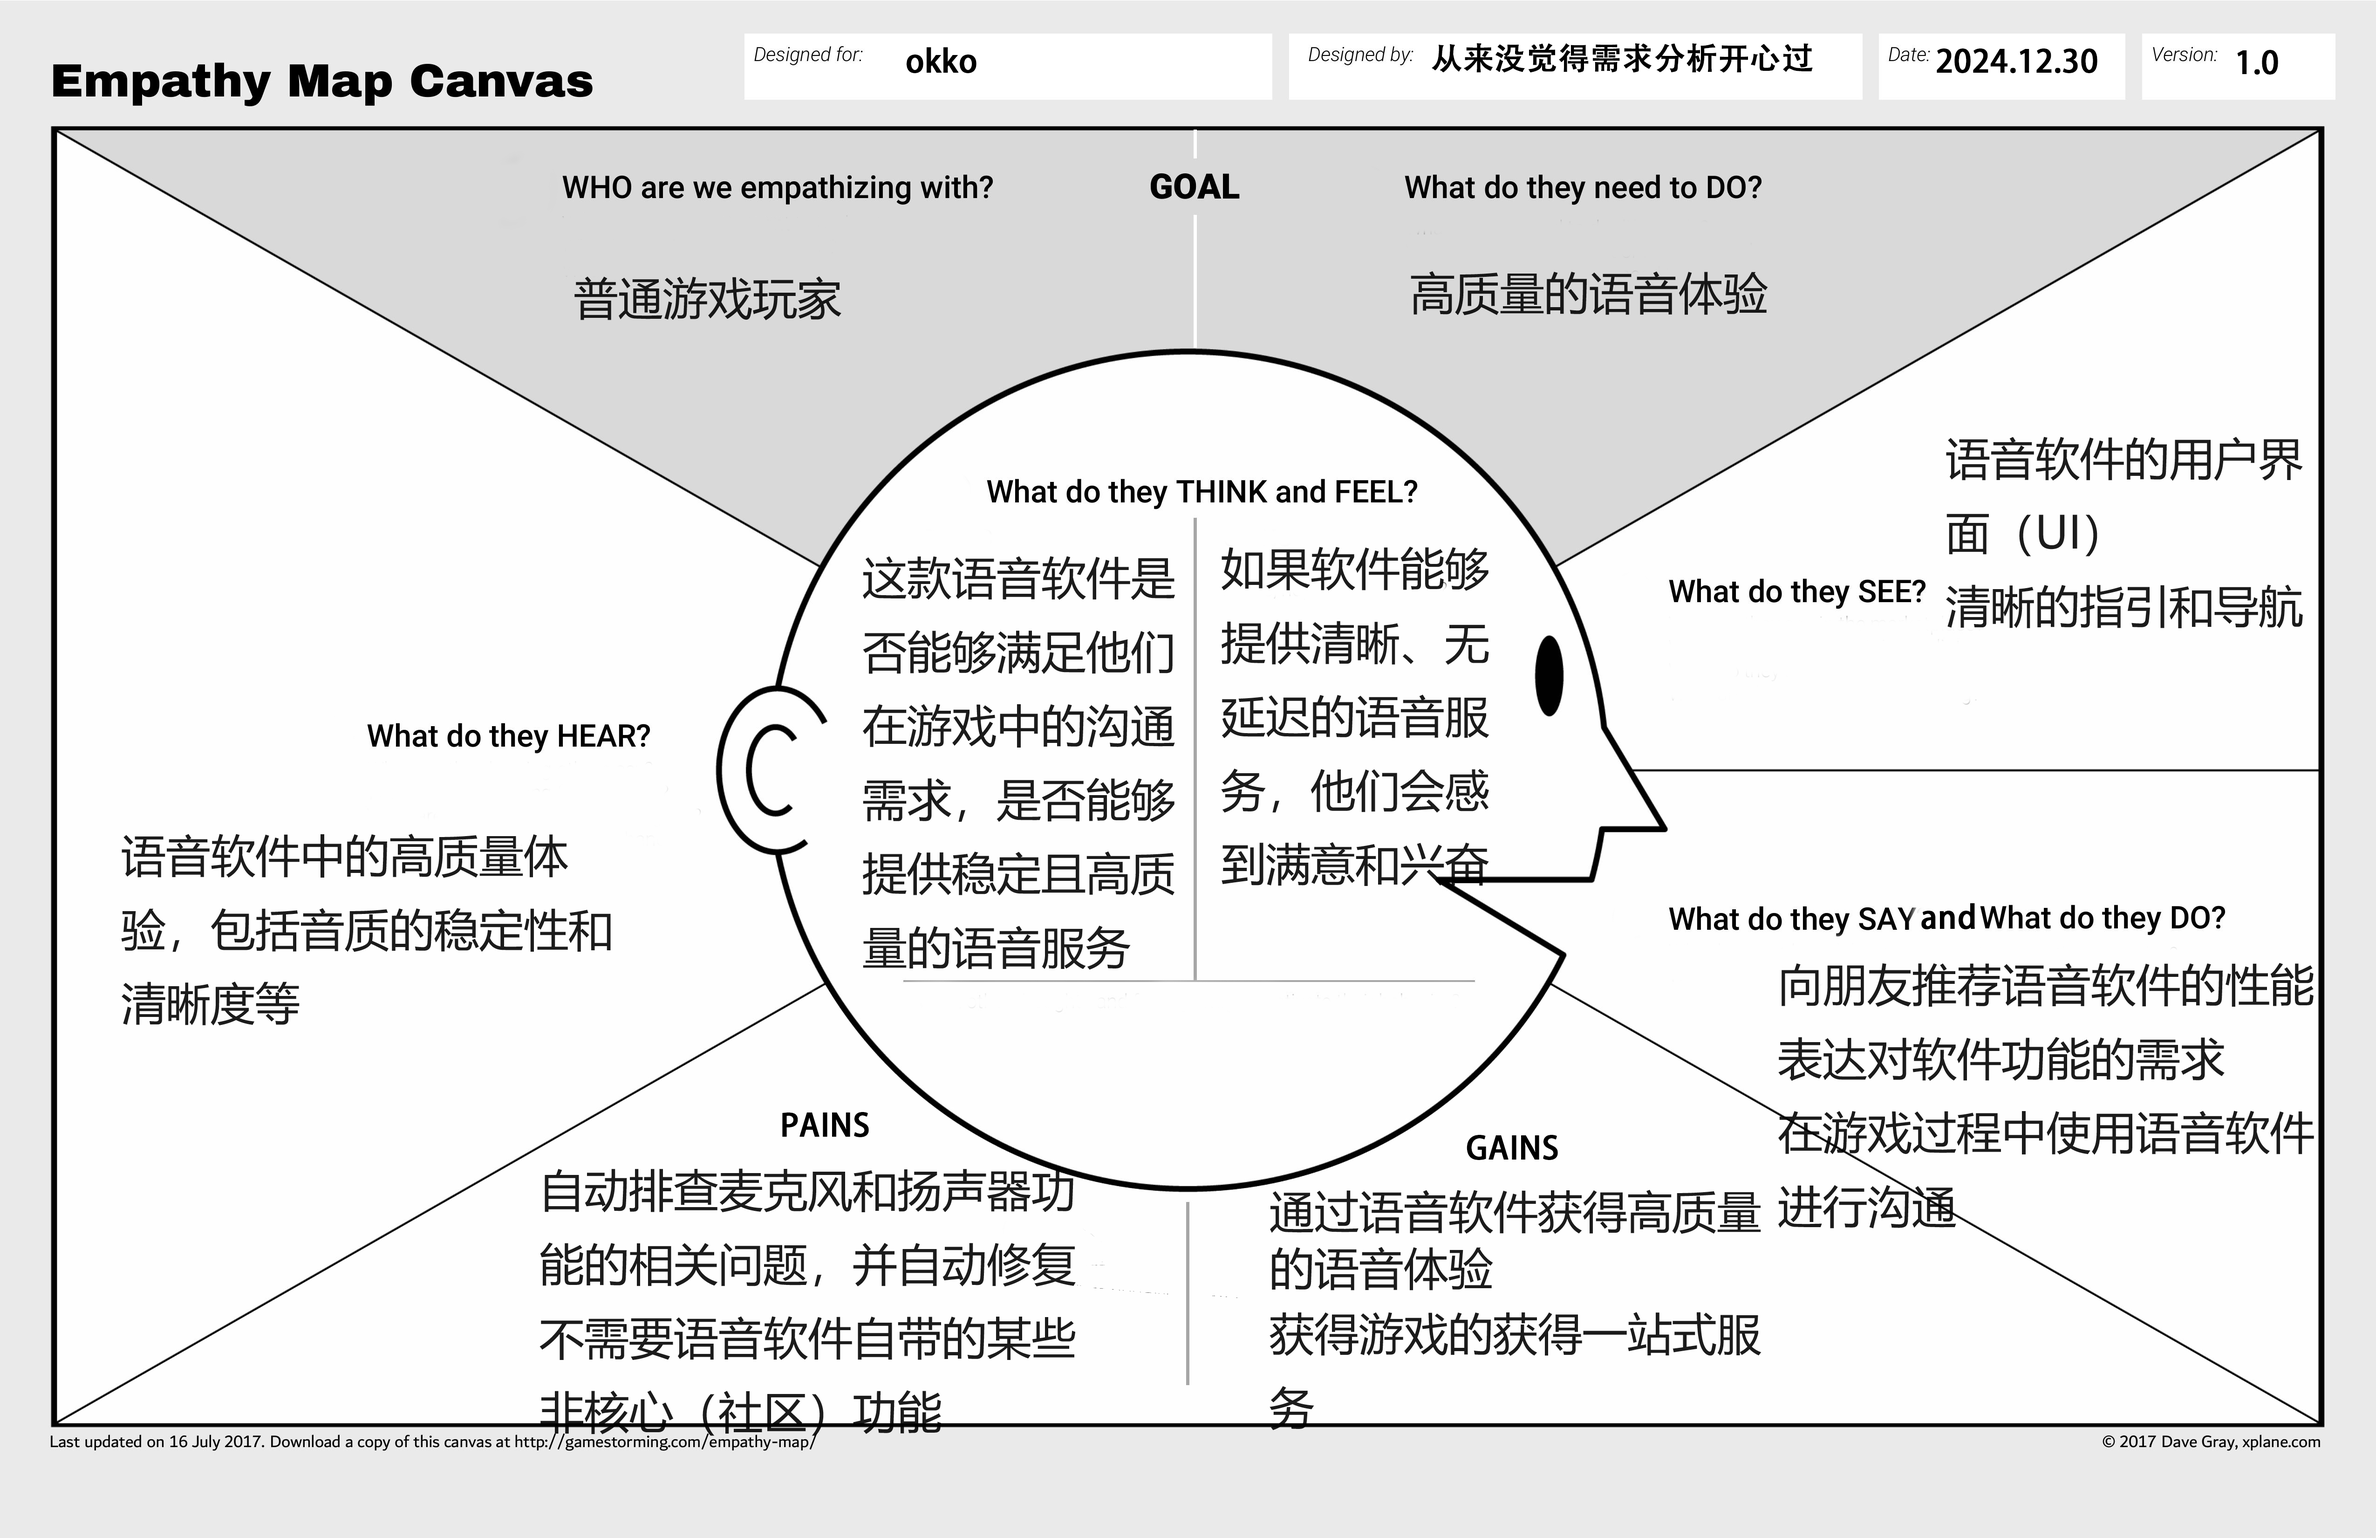
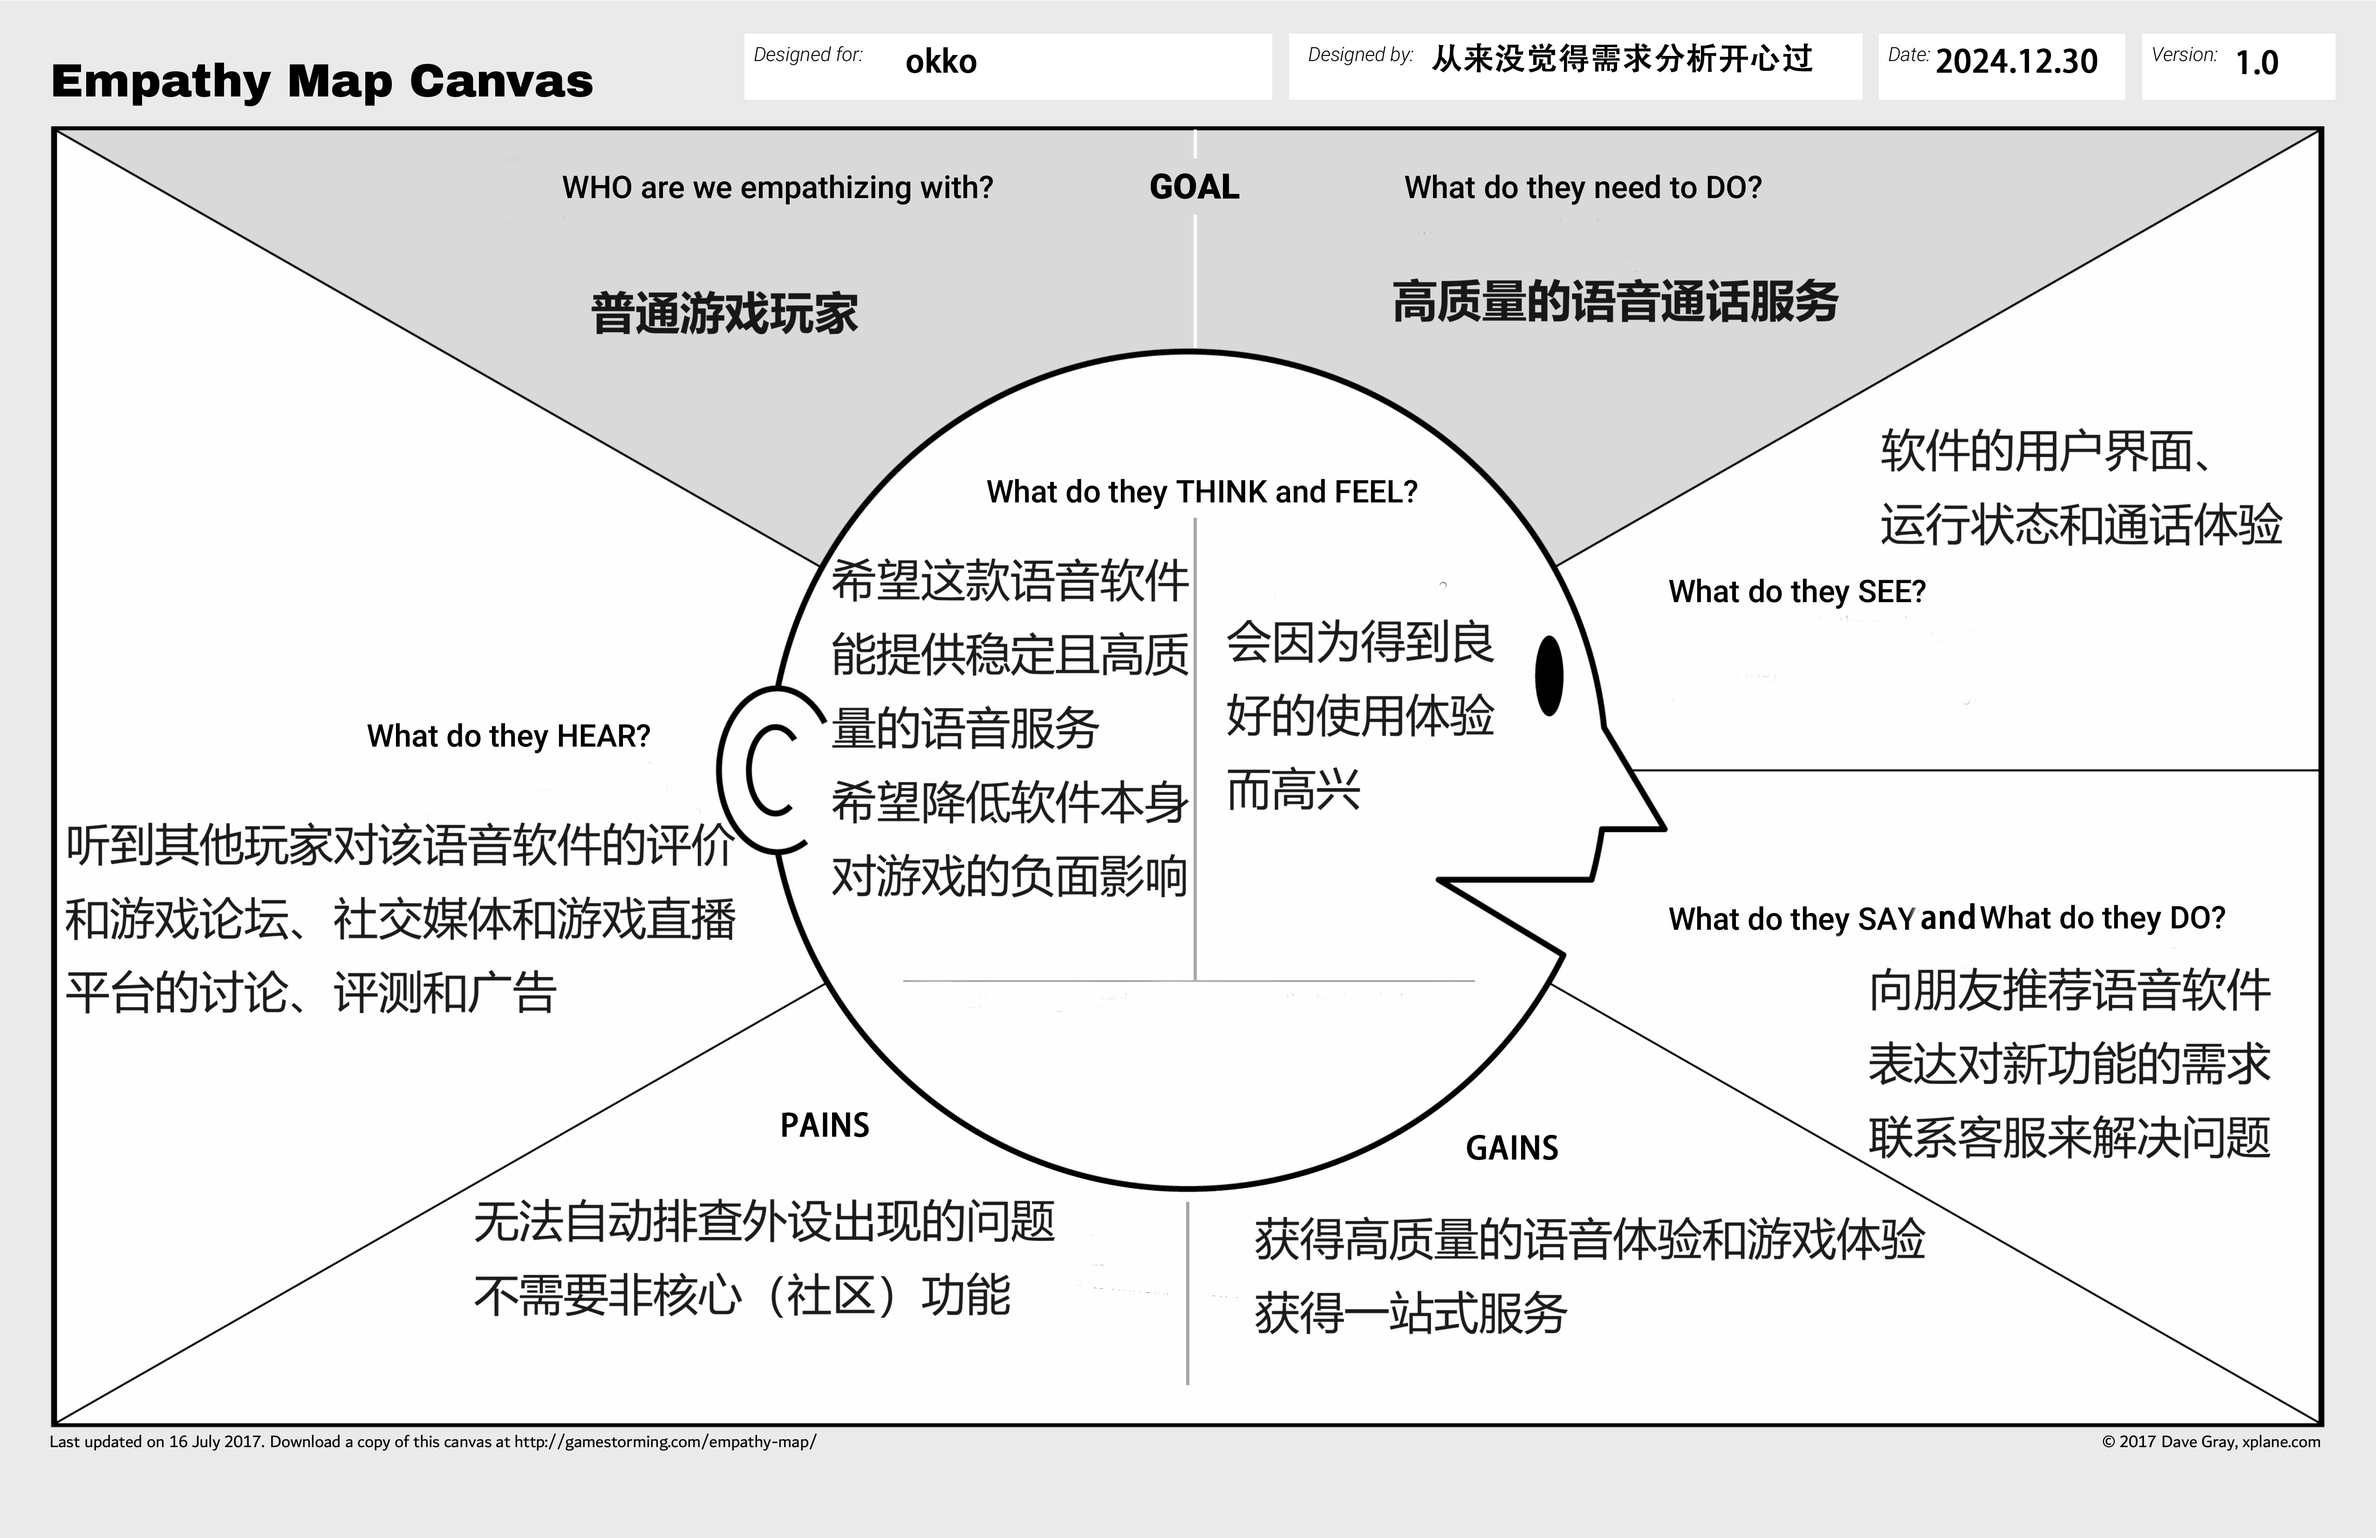
2.1.1

diff --git a/第二次作业/商业模式设计.md b/第二次作业/商业模式设计.md
@@ -42,40 +42,33 @@
 
 #### 2.1.1 移情图
 
-	//image
+![Empathy-Map1](./asserts/Empathy-Map1.png)
 
 #### 2.1.2 移情图分析
 
 - 看：
 
-  语音软件的用户界面（UI），包括按钮布局、功能选项和视觉设计。他们可能会注意到软件是否提供清晰的指引和是否易于导航。
+  软件的用户界面（UI），包括按钮、图标和布局，清晰的指引和导航；软件在游戏过程中的运行状态，包括连接延迟，内存占用等；软件的语音通话体验，包括音质的稳定性和清晰度，以及是否有噪音、回声或延迟等
 
 - 听：
 
-  语音软件中的高质量体验，包括是否有噪音、回声或延迟。他们可能会对音质的稳定性和清晰度特别敏感，因为这直接影响游戏体验。
+  会听到其他玩家对该语音软件的评价和讨论和对于相关软件的推荐；游戏论坛、社交媒体和游戏直播平台的讨论、评测和广告会影响玩家选择语音软件
 
 - 想与感受：
 
-  这款语音软件是否能够满足他们在游戏中的沟通需求，是否能够提供稳定且高质量的语音服务；如果软件能够提供清晰、无延迟的语音服务，他们会感到满意和兴奋。
+  希望这款语音软件能提供稳定且高质量的语音服务，满足他们在游戏中的沟通需求；希望能降低软件本身对游戏的负面影响，比如卡顿和延迟
 
 - 说与做：
 
-  他们可能会向朋友推荐语音软件的性能，表达对软件功能的需求，比如一键组队、主持人模式等；可能会在游戏过程中使用语音软件进行沟通，或者在遇到问题时尝试寻找替代软件。
+  使用软件与朋友进行语音聊天或游戏联机，向朋友推荐该语音软件；表达对软件新功能的需求；在遇到问题时，查询或联系客服来解决问题
 
-- 痛点：游戏玩家可能会需要自动排查麦克风和扬声器功能的相关问题，并且需要自动修复。游戏玩家可能不需要语音软件自带的某些非核心（社区）功能，这些功能可能会分散他们的注意力或增加软件的复杂性。
+- 痛点：
 
-- 收益：游戏玩家期望通过语音软件获得高质量的语音体验，这包括清晰的音质和稳定的连接。游戏玩家希望能够在一个平台上获得一站式服务，包括语音沟通、游戏加速或社交功能，这样可以提高他们的游戏效率和乐趣。
+  游戏玩家可能需要自动排查麦克风和扬声器的相关问题，并且在必要时自动修复问题；游戏玩家可能不需要语音软件自带的某些非核心（社区）功能，这些功能可能会分散他们的注意力或增加软件的复杂性
 
-### 2.2  社区用户
+- 收益：
 
-#### 2.2.2
-
-- 看：
-- 听：
-- 想与感受：
-- 说与做：
-- 痛点：没有优质内容推送，缺乏运营，缺乏高质量二创
-- 收益：问题及时反馈，游戏内容交流，大饱眼福
+  普通游戏玩家希望通过语音软件获得高质量的语音体验和游戏体验；游戏玩家希望能够在一个平台上获得一站式服务，包括语音沟通、游戏加速或社交功能等
 
 ### 2.2 社区
 
@@ -314,4 +307,3 @@
 出客户如何了解并评估产品、购买并获得产品、与产品交互、以及产品售后、客户
 
 对产品的评价与再次购买，**建议突出场景与客户的连接（设计多个用户“交互点”）**
-
